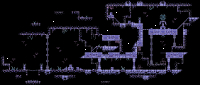
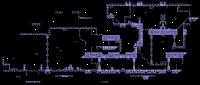
#46 Recreate server when all players have left the game

diff --git a/src/test/java/ee/taltech/iti0200/network/server/ServerNetworkTest.java b/src/test/java/ee/taltech/iti0200/network/server/ServerNetworkTest.java
@@ -1,0 +1,93 @@
+package ee.taltech.iti0200.network.server;
+
+import ee.taltech.iti0200.application.RecreateException;
+import ee.taltech.iti0200.domain.World;
+import ee.taltech.iti0200.domain.event.EventBus;
+import ee.taltech.iti0200.domain.event.entity.RemoveEntity;
+import ee.taltech.iti0200.network.Messenger;
+import org.junit.jupiter.api.BeforeEach;
+import org.junit.jupiter.api.Test;
+import org.mockito.ArgumentCaptor;
+
+import java.net.ServerSocket;
+import java.util.HashSet;
+import java.util.Set;
+import java.util.UUID;
+
+import static ee.taltech.iti0200.network.message.Receiver.EVERYONE;
+import static java.util.Arrays.asList;
+import static java.util.Collections.emptyList;
+import static org.assertj.core.api.Assertions.assertThat;
+import static org.assertj.core.api.Assertions.catchThrowable;
+import static org.mockito.Mockito.RETURNS_DEEP_STUBS;
+import static org.mockito.Mockito.mock;
+import static org.mockito.Mockito.verify;
+import static org.mockito.Mockito.verifyZeroInteractions;
+import static org.mockito.Mockito.when;
+
+class ServerNetworkTest {
+
+    private ServerNetwork network;
+    private Set<ConnectionToClient> clients;
+    private World world;
+    private EventBus eventBus;
+
+    @BeforeEach
+    void setUp() {
+        clients = new HashSet<>();
+        eventBus = mock(EventBus.class, RETURNS_DEEP_STUBS);
+        world = mock(World.class, RETURNS_DEEP_STUBS);
+        Messenger messenger = mock(Messenger.class);
+        Registrar registrar = mock(Registrar.class);
+        ServerSocket serverSocket = mock(ServerSocket.class);
+        network = new ServerNetwork(world, serverSocket, eventBus, clients, messenger, registrar);
+    }
+
+    @Test
+    void propagateThrowsRecreateIfPlayersHaveLeft() {
+        when(world.getEntitiesRemoved()).thenReturn(1L);
+
+        Throwable throwable = catchThrowable(() -> network.propagate(1L));
+
+        assertThat(throwable)
+            .isInstanceOf(RecreateException.class)
+            .hasNoCause();
+
+        verifyZeroInteractions(eventBus);
+    }
+
+    @Test
+    void propagateRemovesDisconnectedClients() {
+        // given
+        ArgumentCaptor<RemoveEntity> captor = ArgumentCaptor.forClass(RemoveEntity.class);
+        UUID id = UUID.randomUUID();
+
+        ConnectionToClient open = mock(ConnectionToClient.class);
+        ConnectionToClient closed = mock(ConnectionToClient.class);
+        ConnectionToClient notFinalized = mock(ConnectionToClient.class);
+
+        clients.addAll(asList(open, closed, notFinalized));
+
+        when(eventBus.propagateAll()).thenReturn(emptyList());
+        when(open.isOpen()).thenReturn(true);
+        when(open.isFinalized()).thenReturn(true);
+        when(closed.isOpen()).thenReturn(false);
+        when(closed.isFinalized()).thenReturn(true);
+        when(notFinalized.isOpen()).thenReturn(true);
+        when(notFinalized.isFinalized()).thenReturn(false);
+        when(closed.getId()).thenReturn(id);
+
+        // when
+        network.propagate(1L);
+
+        // then
+        assertThat(clients).containsExactlyInAnyOrder(open, notFinalized);
+
+        verify(eventBus).dispatch(captor.capture());
+
+        RemoveEntity event = captor.getValue();
+        assertThat(event.getReceiver()).isEqualTo(EVERYONE);
+        assertThat(event.getId()).isEqualTo(id);
+    }
+
+}

diff --git a/src/main/java/ee/taltech/iti0200/application/Game.java b/src/main/java/ee/taltech/iti0200/application/Game.java
@@ -62,16 +62,17 @@ abstract public class Game {
         );
         logger.info("Starting game loop.");
 
-        while (isGameRunning()) {
-            components.forEach(component -> component.update(tick));
-            world.update(tick);
-            loop(tick);
-            tick = timer.sleep();
+        try {
+            while (isGameRunning()) {
+                components.forEach(component -> component.update(tick));
+                world.update(tick);
+                loop(tick);
+                tick = timer.sleep();
+            }
+        } finally {
+            logger.warn("Terminating, game time: " + tick);
+            terminate();
         }
-
-        logger.warn("Terminating, game time: " + tick);
-
-        terminate();
     }
 
     protected abstract void loop(long tick);
@@ -111,7 +112,11 @@ abstract public class Game {
 
         Injector injector = Guice.createInjector(modules);
 
-        injector.getInstance(Game.class).run();
+        try {
+            injector.getInstance(Game.class).run();
+        } catch (RecreateException exception) {
+            main(args);
+        }
     }
 
 }

diff --git a/src/test/java/ee/taltech/iti0200/domain/WorldTest.java b/src/test/java/ee/taltech/iti0200/domain/WorldTest.java
@@ -1,0 +1,41 @@
+package ee.taltech.iti0200.domain;
+
+import ee.taltech.iti0200.domain.entity.Bot;
+import ee.taltech.iti0200.domain.entity.Living;
+import org.junit.jupiter.api.BeforeEach;
+import org.junit.jupiter.api.Test;
+
+import java.util.List;
+
+import static org.assertj.core.api.Assertions.assertThat;
+import static org.mockito.Mockito.mock;
+import static org.mockito.Mockito.verify;
+
+class WorldTest {
+
+    private World world;
+
+    @BeforeEach
+    void setUp() {
+        world = new World(0, 0, 0, 0, 0);
+    }
+
+    @Test
+    void removeEntitySetsLivingToDead() {
+        // given
+        Bot bot = mock(Bot.class);
+        world.addEntity(bot);
+
+        // when
+        world.removeEntity(bot);
+
+        // then
+        long removed = world.getEntitiesRemoved();
+        List<Living> living = world.getLivingEntities();
+
+        assertThat(removed).isEqualTo(1);
+        assertThat(living).isEmpty();
+        verify(bot).setAlive(false);
+    }
+
+}

diff --git a/src/main/java/ee/taltech/iti0200/domain/World.java b/src/main/java/ee/taltech/iti0200/domain/World.java
@@ -25,6 +25,7 @@ public class World {
     private List<Entity> imMovableBodies = new ArrayList<>();
     private Map<Vector, Terrain> terrainMap;
     private ArrayDeque<Vector> spawnPoints = new ArrayDeque<>();
+    private long entitiesRemoved = 0;
     private double xMin;
     private double xMax;
     private double yMin;
@@ -69,6 +70,10 @@ public class World {
         Vector position = spawnPoints.pop();
         spawnPoints.addLast(position);
         return position;
+    }
+
+    public long getEntitiesRemoved() {
+        return entitiesRemoved;
     }
 
     public long getTime() {
@@ -128,6 +133,7 @@ public class World {
 
     public void removeEntity(Entity entity) {
         entities.remove(entity.getId());
+        entitiesRemoved++;
 
         if (entity instanceof Living) {
             livingEntities.remove(entity);

diff --git a/src/main/java/ee/taltech/iti0200/network/server/ServerNetwork.java b/src/main/java/ee/taltech/iti0200/network/server/ServerNetwork.java
@@ -1,6 +1,7 @@
 package ee.taltech.iti0200.network.server;
 
 import com.google.inject.Inject;
+import ee.taltech.iti0200.application.RecreateException;
 import ee.taltech.iti0200.di.annotations.ServerClients;
 import ee.taltech.iti0200.domain.World;
 import ee.taltech.iti0200.domain.event.EventBus;
@@ -111,6 +112,10 @@ public class ServerNetwork extends Network {
 
                 eventBus.dispatch(new RemoveEntity(connection.getId(), EVERYONE));
                 iterator.remove();
+            }
+            if (clients.size() == 0 && world.getEntitiesRemoved() > 0) {
+                logger.warn("Last player left, recreating the game");
+                throw new RecreateException();
             }
         }
     }

diff --git a/src/main/java/ee/taltech/iti0200/di/CommonModule.java b/src/main/java/ee/taltech/iti0200/di/CommonModule.java
@@ -13,7 +13,7 @@ import java.util.UUID;
 
 public class CommonModule extends AbstractModule {
 
-    protected static final String LAYOUT_NAME = "eros.jpg";
+    protected static final String LAYOUT_NAME = "station_small.jpg";
 
     protected World world = new World(0.0, 600, 0.0, 600.0, 0.05);
     protected UUID id = UUID.randomUUID();

diff --git a/src/test/java/ee/taltech/iti0200/domain/event/ReceiverTest.java b/src/test/java/ee/taltech/iti0200/domain/event/ReceiverTest.java
@@ -23,7 +23,6 @@ class ReceiverTest {
 
         assertThat(new Receiver(emptyList()).exclude().matches(first)).isTrue();
         assertThat(new Receiver(emptyList()).exclude().matches(second)).isTrue();
-
     }
 
 }

diff --git a/src/main/java/ee/taltech/iti0200/application/RecreateException.java b/src/main/java/ee/taltech/iti0200/application/RecreateException.java
@@ -1,0 +1,5 @@
+package ee.taltech.iti0200.application;
+
+public class RecreateException extends RuntimeException{
+
+}
